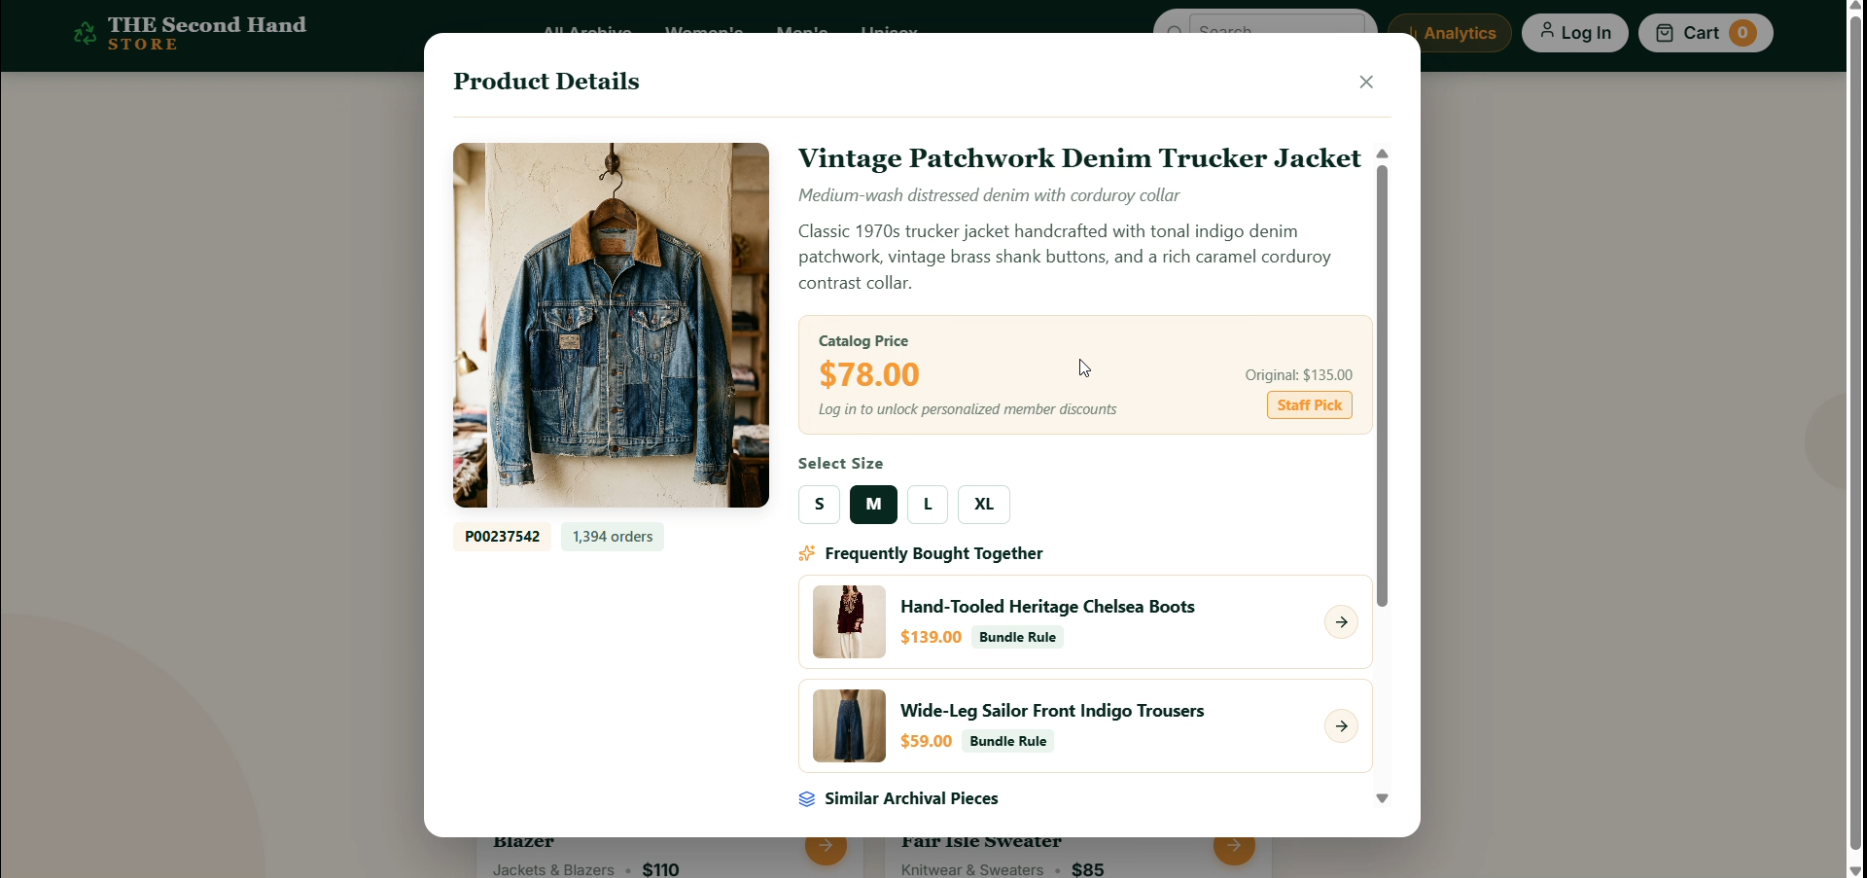
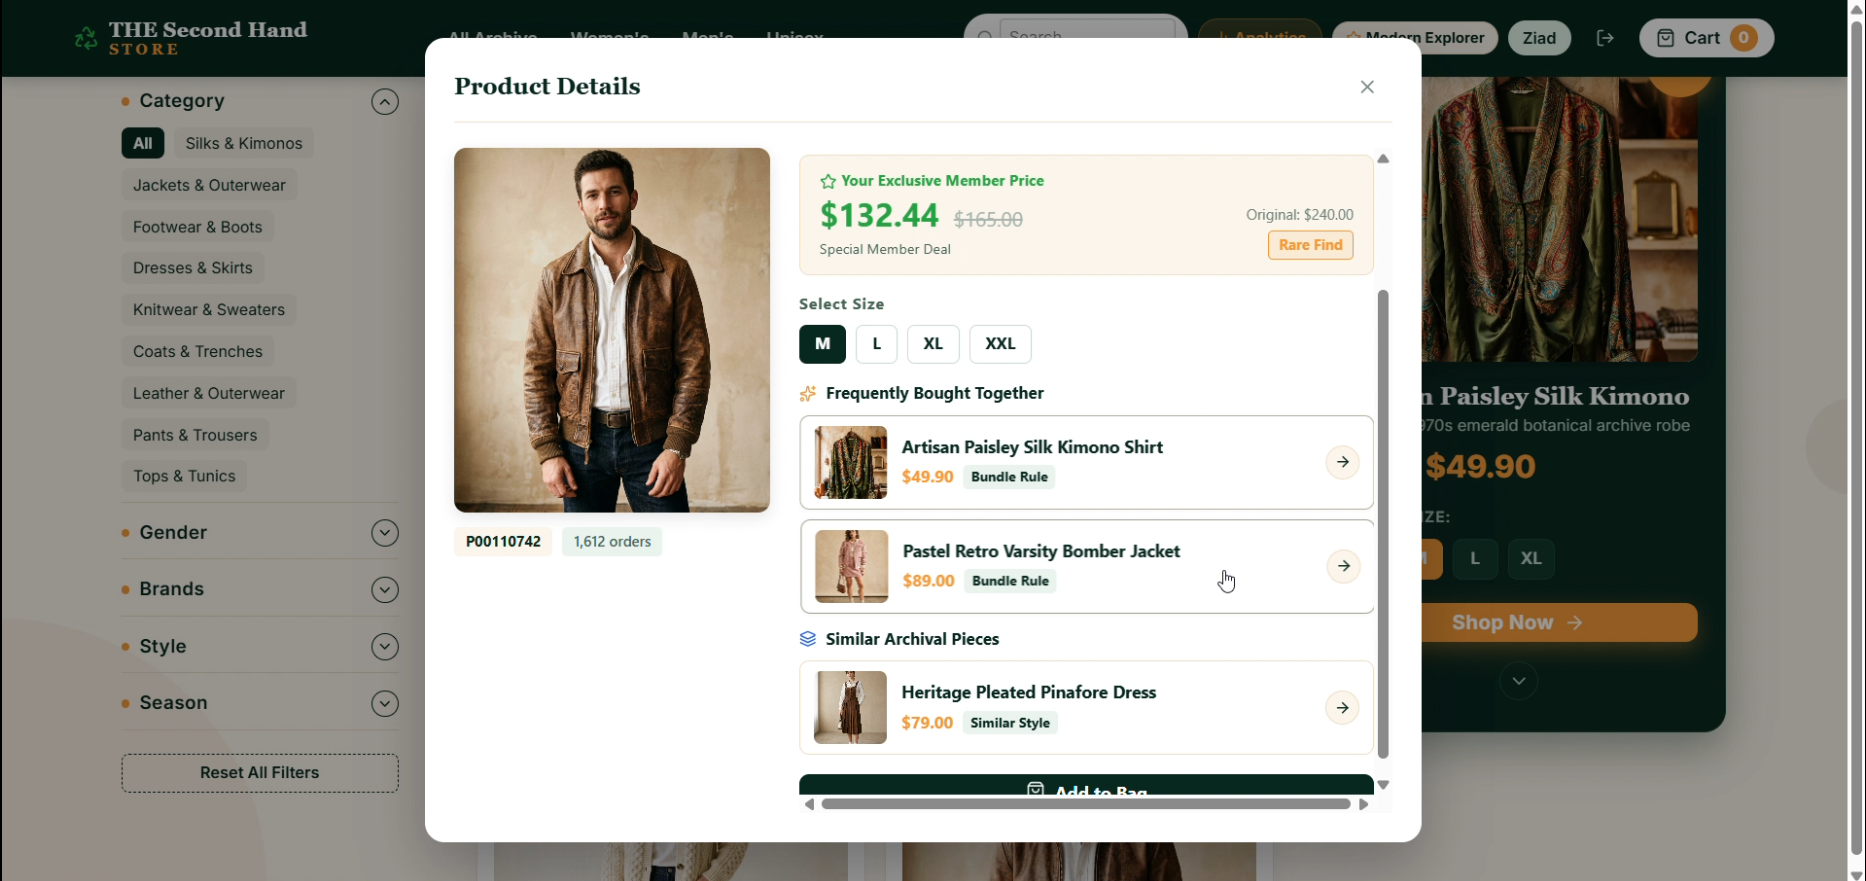
docs: add model evaluation metrics, customer personas breakdown table, and UI image to README

diff --git a/README.md b/README.md
@@ -45,7 +45,9 @@ An enterprise-grade, end-to-end Data Engineering, Data Science, and Machine Lear
 3. **Zero Data Leakage Preprocessing (`ml/pipelines/preprocess.py`)**:
 
    - Partitions raw transactions into Train (90%, 495,061 records) and Test (10%, 55,007 records) splits **prior** to fitting any transformers.
-   - `MissForestImputer` fits exclusively on `train_raw`, computing authentic Out-Of-Bag (OOB) error estimates (`imputer.stats["oob_errors"]`).
+   - `MissForestImputer` fits exclusively on `train_raw`, computing authentic Out-Of-Bag (OOB) error estimates (`product_category_3` OOB $R^2 = \mathbf{85.92\%}$, `product_category_1` OOB $R^2 = \mathbf{76.40\%}$, `product_category_2` OOB $R^2 = \mathbf{75.10\%}$).
+   - Evaluated on holdout test set (16,772 samples): Category 2 MAE = 4.75, Category 3 MAE = 3.01.
+
 4. **Tree-Constrained ONNX Imputer Compression**:
 
    - Converted unconstrained ExtraTrees ensembles (previously 490 MB `.joblib` files) into tree-constrained ONNX graphs (`max_depth=12`, `min_samples_leaf=5`).
@@ -105,6 +107,22 @@ An enterprise-grade, end-to-end Data Engineering, Data Science, and Machine Lear
 
 - **Algorithm**: Complete-linkage Hierarchical Clustering over Gower dissimilarity matrix ($k=10$ personas).
 - **Customer Base**: Analyzed `5,891` distinct customer profiles derived from `550,068` transactions.
+
+#### 10 Empirical Customer Business Personas Breakdown
+
+| Persona ID | Persona Name | Customer Count | Share (%) | Mean LTV ($) | Mean AOV ($) | Mean Freq | Recommended Business Strategy |
+| :---: | :--- | :---: | :---: | :---: | :---: | :---: | :--- |
+| **1** | Single females $\le 50$ | 866 | 14.70% | $732,768 | $8,897 | 84.7 | Target lifestyle-oriented ads, health, wellness & personal care deals. |
+| **2** | Single males $\le 50$ (Low-to-moderate spenders) | 2,268 | 38.50% | $928,807 | $9,814 | 98.1 | Offer introductory discount codes, gadgets & gaming deals. |
+| **3** | Married males $\le 50$ (Moderate spenders) | 1,323 | 22.46% | $931,688 | $9,864 | 98.6 | Send notifications of family items, tech deals & cross-category coupons. |
+| **4** | Single females $> 50$ | 81 | 1.37% | $612,062 | $9,100 | 67.8 | Focus on high-quality lifestyle, travel & premium personal goods. |
+| **5** | Married females $\le 50$ | 559 | 9.49% | $744,914 | $9,015 | 85.0 | Target family-oriented deals, home appliances & kitchenware. |
+| **6** | Single older males $> 50$ | 188 | 3.19% | $688,390 | $9,888 | 70.4 | Focus on hobby goods, sports equipment, DIY tools & outdoor travel. |
+| **7** | Married older males $> 50$ | 424 | 7.20% | $715,096 | $9,626 | 75.0 | Market home improvement, premium electronics & warranty perks. |
+| **8** | Married females $> 50$ | 160 | 2.72% | $535,448 | $9,090 | 59.3 | Family home upgrades, holiday gift bundles & loyalty incentives. |
+| **9** | Single males $\le 50$ (High-spending VIP) | 14 | 0.24% | $6,344,387 | $8,783 | 724.4 | VIP loyalty tier, exclusive midnight early-access & high-end tech. |
+| **10** | Married males $\le 50$ (Ultra High-Value Whales) | 8 | 0.14% | $6,122,903 | $7,928 | 770.0 | Dedicated account perks, luxury bundle discounts & priority delivery. |
+
 
 ---
 
